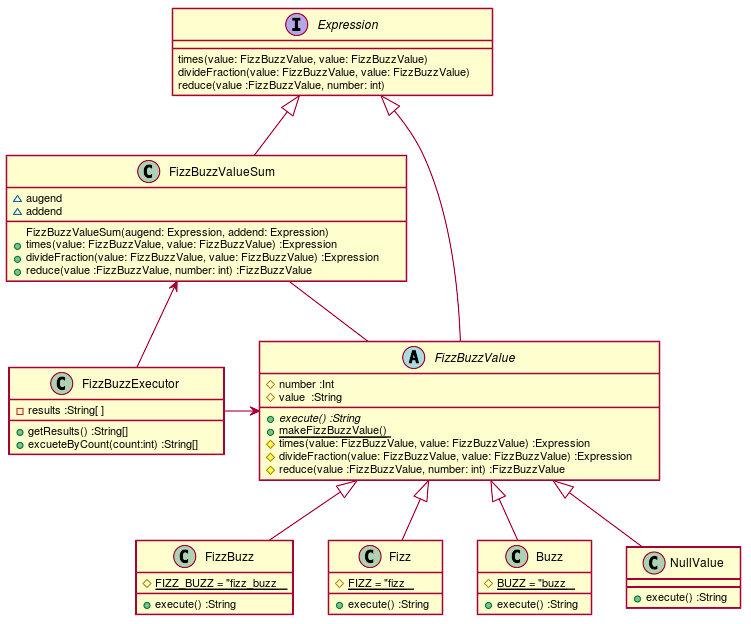
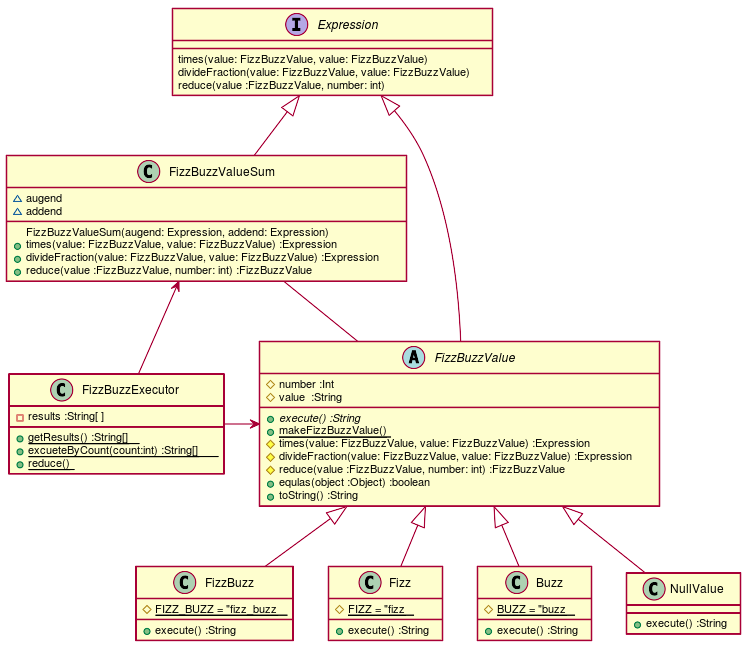
FizzBuzz #EFJ-8
・実装:オブジェクトを演算できるようにする

diff --git a/src/main/java/tdd/fizzbuzz/FizzBuzzValue.java b/src/main/java/tdd/fizzbuzz/FizzBuzzValue.java
@@ -1,6 +1,6 @@
 package tdd.fizzbuzz;
 
-abstract class FizzBuzzValue {
+abstract class FizzBuzzValue implements Expression {
     protected int _number;
     protected String _value;
 
@@ -16,5 +16,19 @@ abstract class FizzBuzzValue {
         } else {
             return new NullValue(number);
         }
+    }
+
+    public boolean equals(Object object) {
+        FizzBuzzValue value = (FizzBuzzValue) object;
+        return _number == value._number
+                && _value.equals(value._value);
+    }
+
+    public String toString() {
+        return _number + " " + _value;
+    }
+
+    public Expression times(FizzBuzzValue multiplier) {
+        return makeFizzBuzzValue(_number * multiplier._number);
     }
 }

diff --git a/src/test/java/tdd/fizzbuzz/FizzBuzzTest.java b/src/test/java/tdd/fizzbuzz/FizzBuzzTest.java
@@ -66,4 +66,14 @@ public class FizzBuzzTest {
         FizzBuzzValue value = (FizzBuzzValue)FizzBuzzExecutor.getResults()[count];
         assertEquals("FizzBuzz", value.execute());
     }
+    @Test
+    public void simpleMultiplication() {
+        FizzBuzzValue fizzBuzz = FizzBuzzValue.makeFizzBuzzValue(15);
+        Expression sum = FizzBuzzValue.makeFizzBuzzValue(3).times(FizzBuzzValue.makeFizzBuzzValue(5));
+        assertEquals(fizzBuzz, sum);
+
+        sum = FizzBuzzValue.makeFizzBuzzValue(225);
+        Expression reduced = FizzBuzzExecutor.reduce(sum);
+        assertEquals(sum, reduced);
+    }
 }

diff --git a/src/main/java/tdd/fizzbuzz/FizzBuzzExecutor.java b/src/main/java/tdd/fizzbuzz/FizzBuzzExecutor.java
@@ -14,4 +14,8 @@ public class FizzBuzzExecutor {
             results[i] = value;
         }
     }
+
+    public static Expression reduce(Expression source) {
+        return FizzBuzzValue.makeFizzBuzzValue(225);
+    }
 }

diff --git a/src/main/java/tdd/fizzbuzz/Expression.java b/src/main/java/tdd/fizzbuzz/Expression.java
@@ -1,0 +1,5 @@
+package tdd.fizzbuzz;
+
+public interface Expression {
+
+}

diff --git a/docs/fizzbuzz.md b/docs/fizzbuzz.md
@@ -29,18 +29,23 @@
   + [ ] <img src="https://latex.codecogs.com/gif.latex?FizzBuzz%20=%20{Fizz}&#x5C;times{Buzz}"/>
   + [ ] <img src="https://latex.codecogs.com/gif.latex?Buzz%20=%20&#x5C;frac{Fizz}{FizzBuzz}"/>
   + [ ] <img src="https://latex.codecogs.com/gif.latex?Fizz%20=%20&#x5C;frac{Buzz}{FizzBuzz}"/>
++ [x] ~~equals()~~
   
 ### クラス図
   
 
-![](./assets/e8d064149b1f1533be1aa0a12f272e560.png?0.8930534158228254)  
+![](./assets/e8d064149b1f1533be1aa0a12f272e560.png?0.06008299352397328)  
 ### シーケンス図
   
 
-![](./assets/e8d064149b1f1533be1aa0a12f272e561.png?0.1330251092924586)  
+![](./assets/e8d064149b1f1533be1aa0a12f272e561.png?0.4186112392063277)  
   
 ## 実装
   
+### ふりかえり
+  
++ オブジェクト等価テストをパスするためにequalメソッドを実装した
++ Expressionインタフェースを導入した
   
 ### `FizzBuzzTest.java`
   
@@ -113,6 +118,16 @@ public class FizzBuzzTest {
         FizzBuzzValue value = (FizzBuzzValue)FizzBuzzExecutor.getResults()[count];
         assertEquals("FizzBuzz", value.execute());
     }
+    @Test
+    public void simpleMultiplication() {
+        FizzBuzzValue fizzBuzz = FizzBuzzValue.makeFizzBuzzValue(15);
+        Expression sum = FizzBuzzValue.makeFizzBuzzValue(3).times(FizzBuzzValue.makeFizzBuzzValue(5));
+        assertEquals(fizzBuzz, sum);
+  
+        sum = FizzBuzzValue.makeFizzBuzzValue(225);
+        Expression reduced = FizzBuzzExecutor.reduce(sum);
+        assertEquals(sum, reduced);
+    }
 }
   
 ```  
@@ -121,7 +136,7 @@ public class FizzBuzzTest {
 ```java
 package tdd.fizzbuzz;
   
-abstract class FizzBuzzValue {
+abstract class FizzBuzzValue implements Expression {
     protected int _number;
     protected String _value;
   
@@ -137,6 +152,20 @@ abstract class FizzBuzzValue {
         } else {
             return new NullValue(number);
         }
+    }
+  
+    public boolean equals(Object object) {
+        FizzBuzzValue value = (FizzBuzzValue) object;
+        return _number == value._number
+                && _value.equals(value._value);
+    }
+  
+    public String toString() {
+        return _number + " " + _value;
+    }
+  
+    public Expression times(FizzBuzzValue multiplier) {
+        return makeFizzBuzzValue(_number * multiplier._number);
     }
 }
   
@@ -240,6 +269,20 @@ public class FizzBuzzExecutor {
             results[i] = value;
         }
     }
+  
+    public static Expression reduce(Expression source) {
+        return FizzBuzzValue.makeFizzBuzzValue(225);
+    }
+}
+  
+```  
+### `Expression.java`
+  
+```java
+package tdd.fizzbuzz;
+  
+public interface Expression {
+  
 }
   
 ```  

diff --git a/docs/src/fizzbuzz.md b/docs/src/fizzbuzz.md
@@ -31,14 +31,16 @@ markdown:
   + [ ] $FizzBuzz = {Fizz}\times{Buzz}$
   + [ ] $Buzz = \frac{Fizz}{FizzBuzz}$
   + [ ] $Fizz = \frac{Buzz}{FizzBuzz}$
++ [x] ~~equals()~~
 
 ### クラス図
 ```puml
 @startuml
 class FizzBuzzExecutor {
   -results :String[ ]
-  +getResults() :String[]  
-  +excueteByCount(count:int) :String[]
+  +{static}getResults() :String[]  
+  +{static}excueteByCount(count:int) :String[]
+  +{static}reduce()
 }
 abstract class FizzBuzzValue {
   #number :Int
@@ -48,6 +50,8 @@ abstract class FizzBuzzValue {
   #times(value: FizzBuzzValue, value: FizzBuzzValue) :Expression
   #divideFraction(value: FizzBuzzValue, value: FizzBuzzValue) :Expression
   #reduce(value :FizzBuzzValue, number: int) :FizzBuzzValue
+  +equlas(object :Object) :boolean
+  +toString() :String
 }
 class FizzBuzz {
   #{static} FIZZ_BUZZ = "fizz_buzz"
@@ -106,6 +110,9 @@ Expression <|-- FizzBuzzValueSum
 ```
 
 ## 実装
+### ふりかえり
++ オブジェクト等価テストをパスするためにequalメソッドを実装した
++ Expressionインタフェースを導入した
 
 ### `FizzBuzzTest.java`
 @import "../../src/test/java/tdd/fizzbuzz/FizzBuzzTest.java"
@@ -121,5 +128,7 @@ Expression <|-- FizzBuzzValueSum
 @import "../../src/main/java/tdd/fizzbuzz/NullValue.java"
 ### `FizzBuzzExecutor.java`
 @import "../../src/main/java/tdd/fizzbuzz/FizzBuzzExecutor.java"
+### `Expression.java`
+@import "../../src/main/java/tdd/fizzbuzz/Expression.java"
 
 
